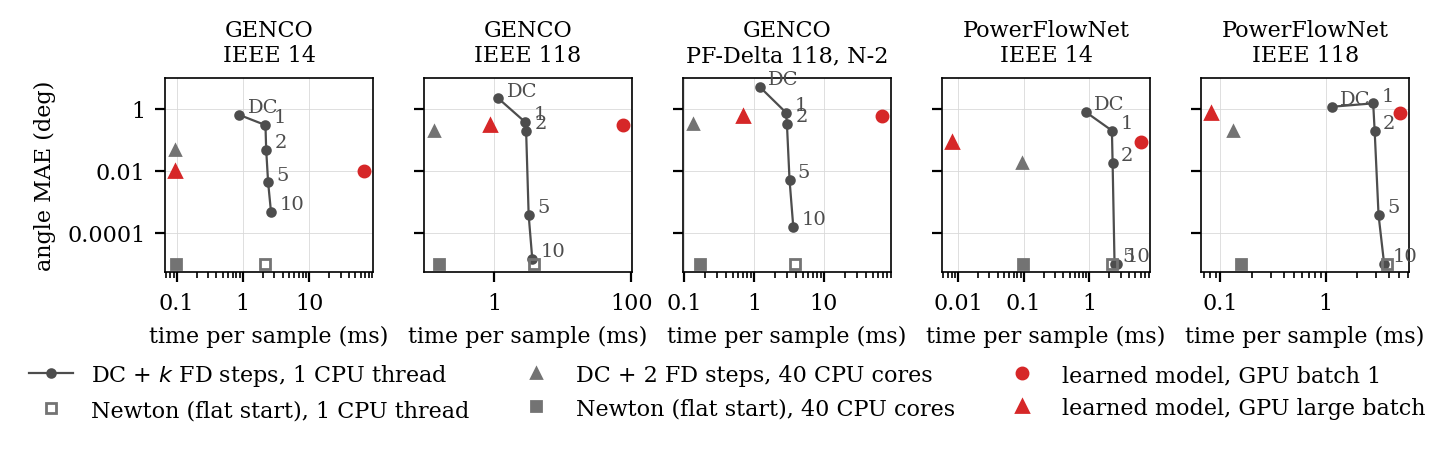
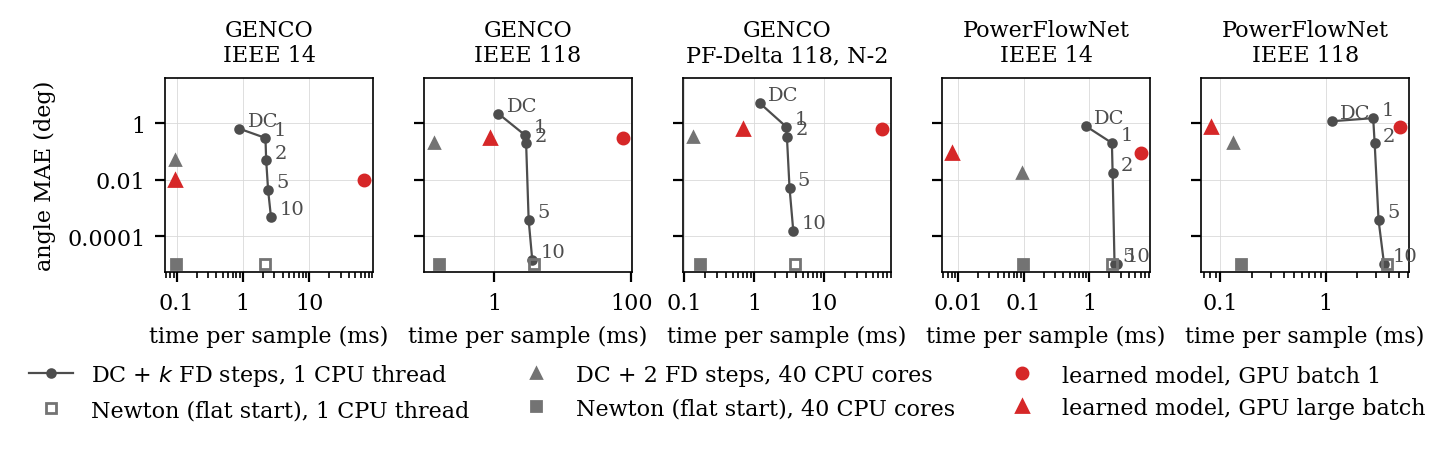
Table: classical |V| MAE columns, 'near collapse'; Fig. 1 headroom for labels (Mazin 23:53 notes)

diff --git a/results/table_main.tex b/results/table_main.tex
@@ -1,15 +1,15 @@
-GENCO & datakit IEEE 14 & 5.2e-5 & 9.6e-3 & 67 / 0.093 & 0.64 & 0.30 & 0.048 & 4.2e-3 & 2.3 & 2.4 & 2.2 \\
- & datakit IEEE 30 & 1.0e-4 & 0.022 & 57 / 0.19 & 0.57 & 0.39 & 0.020 & 1.5e-4 & 2.4 & 2.6 & 2.5 \\
- & datakit IEEE 57 & 2.2e-4 & 0.034 & 63 / 0.36 & 0.72 & 0.81 & 0.071 & 4.0e-4 & 2.6 & 2.8 & 3.7 \\
- & datakit IEEE 118 & 9.5e-5 & 0.30 & 74 / 0.88 & 2.2 & 0.37 & 0.19 & 3.7e-4 & 2.9 & 3.2 & 3.9 \\
- & datakit GOC 500 & 2.3e-4 & 1.5 & 66 / 3.8 & 2.2 & 0.78 & 0.49 & 8.7e-5 & 4.9 & 5.5 & 13 \\
- & PF-Delta 118 N & 1.2e-4 & 0.34 & 67 / 0.69 & 5.7 & 0.81 & 0.31 & 4.8e-3 & 2.9 & 3.2 & 3.9 \\
- & PF-Delta 118 N-1 & 1.8e-4 & 0.49 & 67 / 0.69 & 4.9 & 0.73 & 0.31 & 3.7e-3 & 3.0 & 3.2 & 3.9 \\
- & PF-Delta 118 N-2 & 2.3e-4 & 0.60 & 67 / 0.69 & 5.1 & 0.76 & 0.32 & 5.2e-3 & 3.0 & 3.2 & 3.9 \\
- & PF-Delta 118 N near nose & 8.6e-3 & 45 & 67 / 0.69 & 42 & 26 & 19 & 10 & 2.9 & 3.2 & 14 \\
- & PF-Delta 118 N-1 near nose & 8.5e-3 & 51 & 67 / 0.69 & 46 & 28 & 21 & 12 & 3.0 & 3.2 & 14 \\
- & PF-Delta 118 N-2 near nose & 9.3e-3 & 45 & 67 / 0.69 & 42 & 25 & 19 & 11 & 2.9 & 3.2 & 14 \\
+GENCO & datakit IEEE 14 & 5.2e-5 & 9.6e-3 & 67 / 0.093 & 0.64 & 0.30 & 0.048 & 4.2e-3 & 2.2e-2 & 2.0e-3 & 1.0e-4 & 2.3e-6 & 2.3 & 2.2 \\
+ & datakit IEEE 30 & 1.0e-4 & 0.022 & 57 / 0.19 & 0.57 & 0.39 & 0.020 & 1.5e-4 & 2.6e-2 & 3.1e-3 & 1.7e-4 & 1.7e-7 & 2.4 & 2.5 \\
+ & datakit IEEE 57 & 2.2e-4 & 0.034 & 63 / 0.36 & 0.72 & 0.81 & 0.071 & 4.0e-4 & 2.2e-2 & 8.9e-3 & 1.2e-3 & 3.8e-6 & 2.6 & 3.7 \\
+ & datakit IEEE 118 & 9.5e-5 & 0.30 & 74 / 0.88 & 2.2 & 0.37 & 0.19 & 3.7e-4 & 1.7e-2 & 1.0e-3 & 3.8e-5 & 2.7e-8 & 2.9 & 3.9 \\
+ & datakit GOC 500 & 2.3e-4 & 1.5 & 66 / 3.8 & 2.2 & 0.78 & 0.49 & 8.7e-5 & 4.8e-2 & 1.9e-3 & 7.1e-5 & 3.0e-8 & 4.9 & 13 \\
+ & PF-Delta 118 N & 1.2e-4 & 0.34 & 67 / 0.69 & 5.7 & 0.81 & 0.31 & 4.8e-3 & 1.8e-2 & 1.0e-3 & 9.9e-5 & 1.4e-6 & 2.9 & 3.9 \\
+ & PF-Delta 118 N-1 & 1.8e-4 & 0.49 & 67 / 0.69 & 4.9 & 0.73 & 0.31 & 3.7e-3 & 1.8e-2 & 9.9e-4 & 8.8e-5 & 1.6e-6 & 3.0 & 3.9 \\
+ & PF-Delta 118 N-2 & 2.3e-4 & 0.60 & 67 / 0.69 & 5.1 & 0.76 & 0.32 & 5.2e-3 & 1.8e-2 & 1.0e-3 & 1.0e-4 & 3.8e-6 & 3.0 & 3.9 \\
+ & PF-Delta 118 N near collapse & 8.6e-3 & 45 & 67 / 0.69 & 42 & 26 & 19 & 10 & 3.4e-2 & 8.7e-3 & 5.5e-3 & 2.8e-3 & 2.9 & 14 \\
+ & PF-Delta 118 N-1 near collapse & 8.5e-3 & 51 & 67 / 0.69 & 46 & 28 & 21 & 12 & 3.1e-2 & 7.4e-3 & 4.8e-3 & 2.6e-3 & 3.0 & 14 \\
+ & PF-Delta 118 N-2 near collapse & 9.3e-3 & 45 & 67 / 0.69 & 42 & 25 & 19 & 11 & 3.2e-2 & 8.3e-3 & 5.7e-3 & 3.3e-3 & 2.9 & 14 \\
 \midrule
-PowerFlowNet & authors' IEEE 14 & 5.8e-4 & 0.085 & 6.0 / 0.0080 & 0.78 & 0.20 & 0.018 & 7.4e-6 & 2.3 & 2.4 & 2.2 \\
- & authors' IEEE 118 & 1.3e-3 & 0.75 & 5.0 / 0.081 & 1.2 & 1.5 & 0.19 & 3.7e-4 & 2.9 & 3.2 & 3.9 \\
- & authors' RTE 6470 & 6.3e-3 & 11 & 8.6 / 4.0 & 36 & 3.4 & 3.1 & 0.094 & 34 & 39 & div. \\
+PowerFlowNet & authors' IEEE 14 & 5.8e-4 & 0.085 & 6.0 / 0.0080 & 0.78 & 0.20 & 0.018 & 7.4e-6 & 1.3e-2 & 2.0e-3 & 7.3e-5 & 8.8e-9 & 2.3 & 2.2 \\
+ & authors' IEEE 118 & 1.3e-3 & 0.75 & 5.0 / 0.081 & 1.2 & 1.5 & 0.19 & 3.7e-4 & 9.4e-3 & 6.5e-4 & 1.9e-5 & 1.8e-8 & 2.9 & 3.9 \\
+ & authors' RTE 6470 & 6.3e-3 & 11 & 8.6 / 4.0 & 36 & 3.4 & 3.1 & 0.094 & 3.4e-2 & 3.5e-3 & 1.3e-3 & 1.2e-4 & 34 & div. \\

diff --git a/scripts/make_table.py b/scripts/make_table.py
@@ -84,6 +84,7 @@ def main():
         t = {mk: tov.get(mk, st[mk][2]) for mk in st}
         rows.append(dict(data=data, model=model, vm=vm, va=va, gpu_b1=tb1, gpu_bmax=tbig,
                          **{f"va_{m}{k or ''}": st[(m, k)][0] for (m, k) in st},
+                         **{f"vm_{m}{k or ''}": st[(m, k)][1] for (m, k) in st},
                          **{f"t_{m}{k or ''}": t[(m, k)] for (m, k) in st},
                          nr_cold_conv=st.get(("nr_cold", None), (0, 0, 0, np.nan))[3]))
 
@@ -108,7 +109,7 @@ def main():
     gpu = tm[tm.device != "cpu"]
     tb1 = float(gpu.ms_per_sample[gpu.batch == 1].iloc[0]); tbig = float(gpu.ms_per_sample[gpu.batch == gpu.batch.max()].iloc[0])
     for sub, lab in [("case118_n_feasible", "N"), ("case118_n-1_feasible", "N-1"), ("case118_n-2_feasible", "N-2"),
-                     ("case118_n_nose", "N near nose"), ("case118_n-1_nose", "N-1 near nose"), ("case118_n-2_nose", "N-2 near nose")]:
+                     ("case118_n_nose", "N near collapse"), ("case118_n-1_nose", "N-1 near collapse"), ("case118_n-2_nose", "N-2 near collapse")]:
         f = R / "classical" / "manifest" / f"per_sample_pfdelta_task1.3_{sub}.csv"
         r = sm[sm.subset == sub]
         if r.empty or not f.exists():
@@ -154,7 +155,8 @@ def main():
         lines.append(" & ".join([shown, data, fmt(r.vm, "vm"), fmt(r.va, "va"),
                                  f"{fmt(r.gpu_b1, 't')} / {fmt(r.gpu_bmax, 't')}",
                                  fmt(r.va_dc, "va"), fmt(r.va_dc_fd1, "va"), fmt(r.va_dc_fd2, "va"), fmt(r.va_dc_fd5, "va"),
-                                 fmt(r.t_dc_fd2, "t"), fmt(r.t_dc_fd5, "t"),
+                                 fmt(r.vm_dc, "vm"), fmt(r.vm_dc_fd1, "vm"), fmt(r.vm_dc_fd2, "vm"), fmt(r.vm_dc_fd5, "vm"),
+                                 fmt(r.t_dc_fd2, "t"),
                                  fmt(r.t_nr_cold, "t") if not (r.nr_cold_conv < 0.5) else "div."]) + r" \\")
     pathlib.Path(a.out_tex).write_text("\n".join(lines) + "\n")
     print(df[["data", "model", "va", "va_dc", "va_dc_fd1", "va_dc_fd2", "va_dc_fd5", "t_dc_fd2", "t_nr_cold"]].to_string())

diff --git a/scripts/fig_speed_accuracy.py b/scripts/fig_speed_accuracy.py
@@ -71,6 +71,8 @@ def main():
         ax.set_title(a.titles[i] if a.titles else row, fontsize=8)
         ax.set_xlabel("time per sample (ms)")
         ax.grid(True, which="major", lw=0.3, color="0.85")
+    lo, hi = axes[0][0].get_ylim()
+    axes[0][0].set_ylim(lo, hi * 4)  # headroom so the ladder labels (e.g. "DC") stay inside every panel
     axes[0][0].set_ylabel("angle MAE (deg)")
     h, l = axes[0][0].get_legend_handles_labels()
     fig.legend(h, l, loc="lower center", ncol=3, frameon=False, bbox_to_anchor=(0.5, -0.03))
